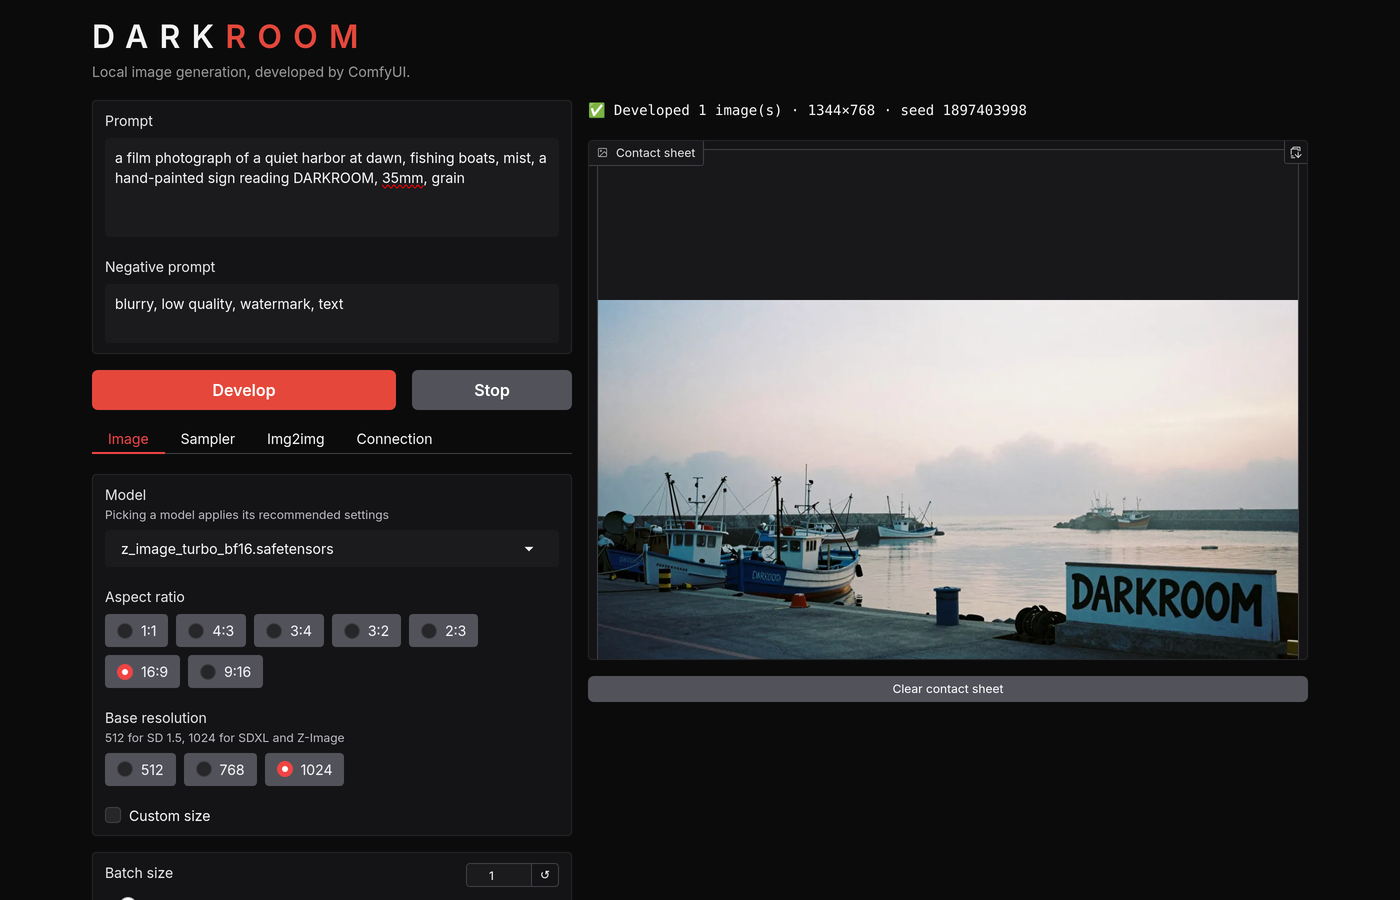
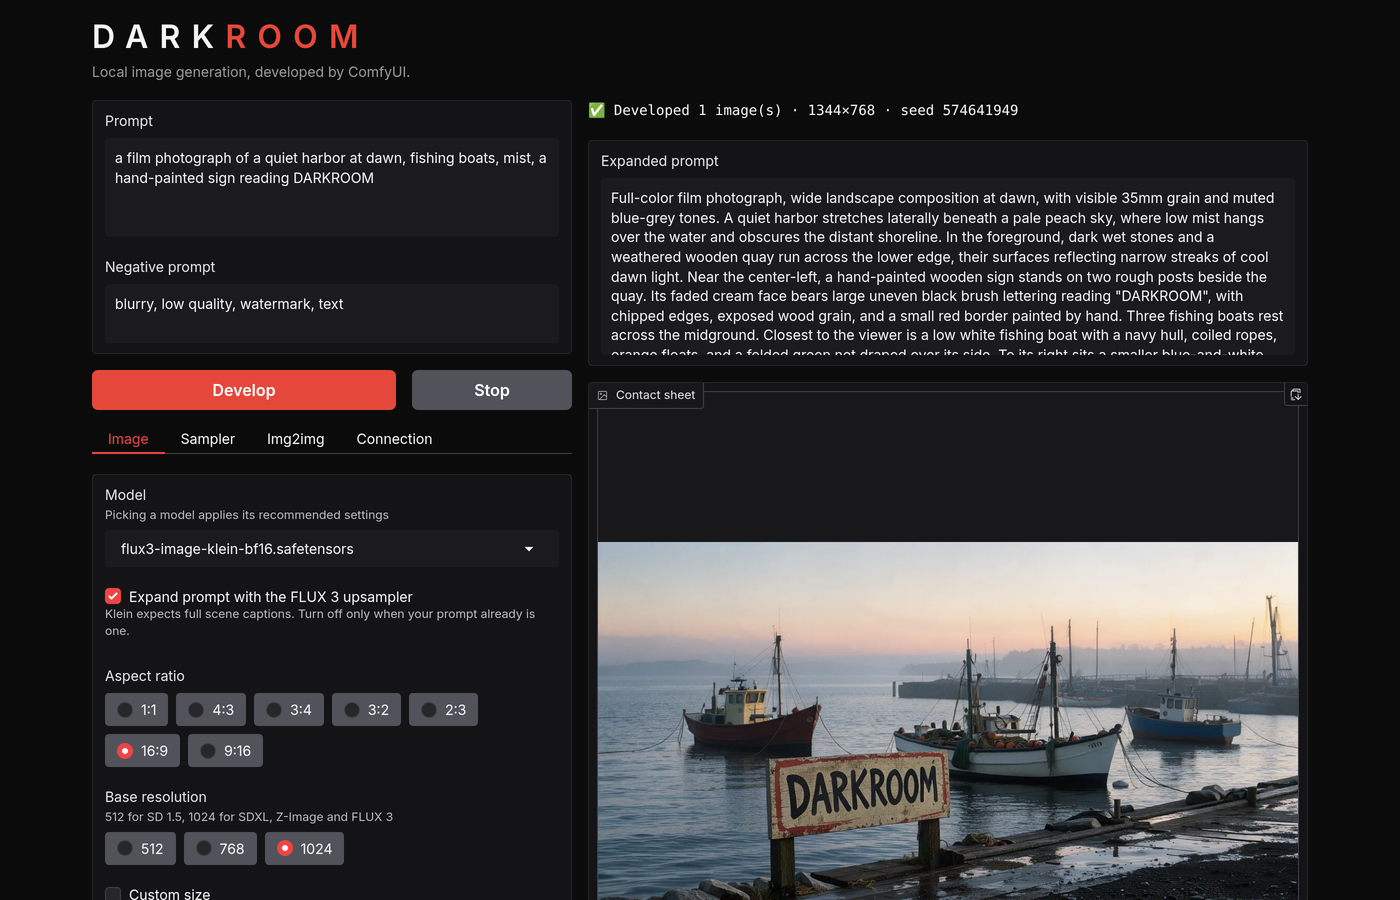
Add FLUX 3 Image Klein with its prompt upsampler
- Build Black Forest Labs' ComfyUI graph for flux3 diffusion models:
  Qwen3-VL 4B text encoder, FLUX.2 VAE, timestep shift ln 16
- Expand prompts with the Qwen3.5 9B upsampler by default, show the
  expanded prompt, and allow turning it off
- Presets for distilled (16 steps, CFG 1) and base (50 steps, CFG 3.5)
- Modal download fetches the gated weights with the huggingface secret
- Document FLUX 3 setup and update the changelog and screenshot

Amp-Thread-ID: https://ampcode.com/threads/T-01a203e0-820e-74d3-a02a-46e3893e5468

diff --git a/src/darkroom/app.py b/src/darkroom/app.py
@@ -8,7 +8,7 @@ import random
 import gradio as gr
 from websocket import WebSocketException
 
-from darkroom.comfy import ComfyClient, ComfyError, Params, build_workflow, is_zimage
+from darkroom.comfy import ComfyClient, ComfyError, Params, build_workflow, is_flux3, is_zimage
 
 DEFAULT_URL = os.environ.get("COMFYUI_URL", "http://127.0.0.1:8188")
 MAX_SEED = 2**32 - 1
@@ -65,9 +65,16 @@ def size_for(aspect: str, base: int) -> tuple[int, int]:
 
 
 def presets(model: str | None):
-    """Recommended base resolution, steps, CFG, sampler and scheduler for a model."""
+    """Recommended base resolution, steps, CFG, sampler, scheduler, and upsampler visibility for a model."""
     if not model:
-        return (gr.update(),) * 5
+        return (gr.update(),) * 6
+    upsampler = gr.update(visible=is_flux3(model))
+    return (*_preset(model), upsampler)
+
+
+def _preset(model: str):
+    if is_flux3(model):  # Black Forest Labs' FLUX 3 Klein workflows
+        return (1024, 50, 3.5, "euler", "simple") if "base" in model.lower() else (1024, 16, 1, "euler", "simple")
     if is_zimage(model):  # ComfyUI's Z-Image Turbo template
         return 1024, 8, 1, "res_multistep", "simple"
     if "xl" in model.lower():
@@ -76,7 +83,7 @@ def presets(model: str | None):
 
 
 def generate(url, ckpt, prompt, negative, aspect, base, width, height, custom_size,
-             steps, cfg, sampler, scheduler, seed, randomize, batch, init_image, denoise, history):
+             steps, cfg, sampler, scheduler, seed, randomize, batch, init_image, denoise, upsample, history):
     if not ckpt:
         raise gr.Error("No model selected. Connect to ComfyUI and pick one.")
     if not prompt.strip():
@@ -91,29 +98,35 @@ def generate(url, ckpt, prompt, negative, aspect, base, width, height, custom_si
         params = Params(
             checkpoint=ckpt, prompt=prompt, negative=negative, width=int(width), height=int(height),
             steps=int(steps), cfg=float(cfg), sampler=sampler, scheduler=scheduler, seed=seed,
-            batch=int(batch), denoise=float(denoise), init_image=init_name,
+            batch=int(batch), denoise=float(denoise), init_image=init_name, upsample=bool(upsample),
         )
+        expanded = gr.update(visible=False)
+        if is_flux3(ckpt) and upsample:
+            expanded = gr.update(value="Expanding the prompt…", visible=True)
         mode = "img2img" if init_name else "txt2img"
-        yield gr.update(), gr.update(), f"⏳ Queued {mode} · {width}×{height} · seed {seed}", seed, history
+        yield gr.update(), gr.update(), f"⏳ Queued {mode} · {width}×{height} · seed {seed}", seed, history, expanded
         for event in client.run(build_workflow(params)):
             if event[0] == "progress":
                 _, value, total = event
                 bar = "█" * int(20 * value / total) + "░" * (20 - int(20 * value / total))
-                yield gr.update(), gr.update(), f"{bar} step {value}/{total} · seed {seed}", seed, history
+                yield gr.update(), gr.update(), f"{bar} step {value}/{total} · seed {seed}", seed, history, gr.update()
             elif event[0] == "preview":
-                yield gr.update(value=event[1], visible=True), gr.update(), gr.update(), seed, history
+                yield gr.update(value=event[1], visible=True), gr.update(), gr.update(), seed, history, gr.update()
             else:
-                images = event[1]
+                images, texts = event[1], event[2]
+                if texts:
+                    expanded = gr.update(value=texts[0], visible=True)
                 captions = [f"seed {seed} · {prompt[:80]}" for _ in images]
                 history = list(zip(images, captions)) + history
                 yield (gr.update(value=None, visible=False), [img for img, _ in history],
-                       f"✅ Developed {len(images)} image(s) · {width}×{height} · seed {seed}", seed, history)
+                       f"✅ Developed {len(images)} image(s) · {width}×{height} · seed {seed}", seed, history,
+                       expanded)
     except ComfyError as e:
         msg = "⏹ Stopped" if str(e) == "Interrupted" else f"🔴 {e}"
-        yield gr.update(visible=False), gr.update(), msg, seed, history
+        yield gr.update(visible=False), gr.update(), msg, seed, history, gr.update(visible=False)
     except (OSError, WebSocketException) as e:
         msg = f"🔴 Lost connection to ComfyUI ({e}). Check the ComfyUI console; it may have run out of memory."
-        yield gr.update(visible=False), gr.update(), msg, seed, history
+        yield gr.update(visible=False), gr.update(), msg, seed, history, gr.update(visible=False)
 
 
 def build_ui() -> gr.Blocks:
@@ -134,9 +147,12 @@ def build_ui() -> gr.Blocks:
                 with gr.Tab("Image"):
                     ckpt = gr.Dropdown(label="Model", choices=[], interactive=True,
                                        info="Picking a model applies its recommended settings")
+                    upsample = gr.Checkbox(label="Expand prompt with the FLUX 3 upsampler", value=True,
+                                           visible=False, info="Klein expects full scene captions. "
+                                           "Turn off only when your prompt already is one.")
                     aspect = gr.Radio(list(ASPECTS), value="1:1", label="Aspect ratio")
                     base = gr.Radio([512, 768, 1024], value=512, label="Base resolution",
-                                    info="512 for SD 1.5, 1024 for SDXL and Z-Image")
+                                    info="512 for SD 1.5, 1024 for SDXL, Z-Image and FLUX 3")
                     custom_size = gr.Checkbox(label="Custom size", value=False)
                     with gr.Row(visible=False) as custom_row:
                         width = gr.Slider(64, 2048, 512, step=64, label="Width")
@@ -161,20 +177,22 @@ def build_ui() -> gr.Blocks:
 
             with gr.Column(scale=6):
                 status = gr.Markdown("", elem_id="status")
+                expanded = gr.Textbox(label="Expanded prompt", lines=3, max_lines=8, interactive=False,
+                                      visible=False)
                 preview = gr.Image(label="Developing…", visible=False, interactive=False, height=420)
                 gallery = gr.Gallery(label="Contact sheet", columns=3, height=520, object_fit="contain",
                                      show_label=True, preview=False)
                 clear_btn = gr.Button("Clear contact sheet", size="sm")
 
         connect_outputs = [ckpt, sampler, scheduler, status]
-        ckpt.change(presets, ckpt, [base, steps, cfg, sampler, scheduler])
+        ckpt.change(presets, ckpt, [base, steps, cfg, sampler, scheduler, upsample])
         demo.load(connect, url, connect_outputs)
         refresh_btn.click(connect, url, connect_outputs)
         custom_size.change(lambda c: gr.update(visible=c), custom_size, custom_row)
 
         inputs = [url, ckpt, prompt, negative, aspect, base, width, height, custom_size,
-                  steps, cfg, sampler, scheduler, seed, randomize, batch, init_image, denoise, history]
-        outputs = [preview, gallery, status, seed, history]
+                  steps, cfg, sampler, scheduler, seed, randomize, batch, init_image, denoise, upsample, history]
+        outputs = [preview, gallery, status, seed, history, expanded]
         generate_btn.click(generate, inputs, outputs, concurrency_limit=1)
         prompt.submit(generate, inputs, outputs, concurrency_limit=1)
         # Interrupting ComfyUI ends the running generate() with an "Interrupted" event.

diff --git a/src/darkroom/comfy.py b/src/darkroom/comfy.py
@@ -4,10 +4,12 @@ from __future__ import annotations
 
 import io
 import json
+import math
 import os
 import uuid
 from collections.abc import Iterator
 from dataclasses import dataclass
+from importlib.resources import files
 
 import requests
 import websocket
@@ -29,6 +31,7 @@ class Params:
     batch: int
     denoise: float = 1.0
     init_image: str | None = None  # name returned by ComfyClient.upload
+    upsample: bool = True  # FLUX 3 Klein only: expand the prompt with BFL's upsampler first
 
 
 # Z-Image ships as separate diffusion model, text encoder and VAE files (ComfyUI's official template).
@@ -40,9 +43,49 @@ def is_zimage(model: str) -> bool:
     return "z_image" in model.lower()
 
 
+# FLUX 3 Image Klein, as in Black Forest Labs' ComfyUI workflows (flux-3-image-klein-comfy, MIT).
+FLUX3_TEXT_ENCODER = "qwen3vl_4b_bf16.safetensors"
+FLUX3_UPSAMPLER = "qwen3.5_9b_flux3_prompt_upsampler_bf16.safetensors"
+FLUX3_VAE = "flux2-vae.safetensors"
+FLUX3_SHIFT = math.log(16)  # the workflows' timestep shift: mu = ln(alpha), alpha = 16
+FLUX3_SYSTEM_PROMPT = files("darkroom").joinpath("flux3_upsampler_prompt.txt").read_text().strip()
+
+
+def is_flux3(model: str) -> bool:
+    return "flux3" in model.lower()
+
+
+def _canvas(width: int, height: int) -> str:
+    g = math.gcd(width, height)
+    return f"{width // g}:{height // g}"
+
+
 def build_workflow(p: Params) -> dict:
     """Build a ComfyUI API-format graph for txt2img, or img2img when init_image is set."""
-    if is_zimage(p.checkpoint):
+    prompt = ["upsample", 0] if is_flux3(p.checkpoint) and p.upsample else p.prompt
+    if is_flux3(p.checkpoint):
+        g = {
+            "unet": {"class_type": "UNETLoader", "inputs": {"unet_name": p.checkpoint, "weight_dtype": "default"}},
+            "shift": {"class_type": "ModelSamplingFlux", "inputs": {
+                "model": ["unet", 0], "max_shift": FLUX3_SHIFT, "base_shift": FLUX3_SHIFT,
+                "width": p.width, "height": p.height}},
+            "clip": {"class_type": "CLIPLoader", "inputs": {"clip_name": FLUX3_TEXT_ENCODER, "type": "flux3"}},
+            "vae": {"class_type": "VAELoader", "inputs": {"vae_name": FLUX3_VAE}},
+        }
+        model, clip, vae, empty_latent = ["shift", 0], ["clip", 0], ["vae", 0], "EmptyFlux2LatentImage"
+        if p.upsample:
+            # Klein is trained on full scene captions; its upsampler LLM expands a short prompt into one.
+            g["upsampler"] = {"class_type": "CLIPLoader",
+                              "inputs": {"clip_name": FLUX3_UPSAMPLER, "type": "flux3"}}
+            g["upsample"] = {"class_type": "TextGenerate", "inputs": {
+                "clip": ["upsampler", 0], "system_prompt": FLUX3_SYSTEM_PROMPT,
+                "prompt": f"TARGET CANVAS: {_canvas(p.width, p.height)}\n{p.prompt.strip()}",
+                "max_length": 3584, "thinking": False, "use_default_template": True, "mtp": "off",
+                "sampling_mode": "on", "sampling_mode.temperature": 1, "sampling_mode.top_k": 1,
+                "sampling_mode.top_p": 0.95, "sampling_mode.min_p": 0, "sampling_mode.repetition_penalty": 1,
+                "sampling_mode.presence_penalty": 1.5, "sampling_mode.seed": p.seed}}
+            g["show_prompt"] = {"class_type": "PreviewAny", "inputs": {"source": ["upsample", 0]}}
+    elif is_zimage(p.checkpoint):
         g: dict = {
             "unet": {"class_type": "UNETLoader", "inputs": {"unet_name": p.checkpoint, "weight_dtype": "default"}},
             "shift": {"class_type": "ModelSamplingAuraFlow", "inputs": {"model": ["unet", 0], "shift": 3}},
@@ -54,7 +97,7 @@ def build_workflow(p: Params) -> dict:
         g = {"ckpt": {"class_type": "CheckpointLoaderSimple", "inputs": {"ckpt_name": p.checkpoint}}}
         model, clip, vae, empty_latent = ["ckpt", 0], ["ckpt", 1], ["ckpt", 2], "EmptyLatentImage"
     # At CFG 1 (Z-Image Turbo's default) ComfyUI skips the negative prompt.
-    g["pos"] = {"class_type": "CLIPTextEncode", "inputs": {"text": p.prompt, "clip": clip}}
+    g["pos"] = {"class_type": "CLIPTextEncode", "inputs": {"text": prompt, "clip": clip}}
     g["neg"] = {"class_type": "CLIPTextEncode", "inputs": {"text": p.negative, "clip": clip}}
     if p.init_image:
         g["load"] = {"class_type": "LoadImage", "inputs": {"image": p.init_image}}
@@ -116,9 +159,10 @@ class ComfyClient:
         return info[1].get("options", [])
 
     def checkpoints(self) -> list[str]:
-        """Checkpoints plus the diffusion models Darkroom can build a workflow for (Z-Image)."""
+        """Checkpoints plus the diffusion models Darkroom can build a workflow for (Z-Image, FLUX 3)."""
         unets = self._choices("UNETLoader", "unet_name")
-        return self._choices("CheckpointLoaderSimple", "ckpt_name") + [u for u in unets if is_zimage(u)]
+        return self._choices("CheckpointLoaderSimple", "ckpt_name") + [
+            u for u in unets if is_zimage(u) or is_flux3(u)]
 
     def samplers(self) -> list[str]:
         return self._choices("KSampler", "sampler_name")
@@ -142,7 +186,8 @@ class ComfyClient:
     def run(self, workflow: dict) -> Iterator[tuple]:
         """Queue a workflow and yield events while it runs.
 
-        Yields ("progress", value, max), ("preview", Image), and finally ("done", [Image, ...]).
+        Yields ("progress", value, max), ("preview", Image), and finally ("done", [Image, ...], [text, ...]),
+        where the texts come from text output nodes such as the FLUX 3 prompt upsampler.
         """
         ws_url = self.url.replace("http", "ws", 1) + f"/ws?clientId={self.client_id}"
         ws = websocket.create_connection(ws_url, timeout=600, header=self.headers)
@@ -180,12 +225,13 @@ class ComfyClient:
             ws.close()
 
         history = self._get(f"/history/{prompt_id}").json()[prompt_id]
-        images = []
+        images, texts = [], []
         for output in history["outputs"].values():
+            texts += output.get("text", [])
             for im in output.get("images", []):
                 raw = self._get("/view", filename=im["filename"], subfolder=im["subfolder"], type=im["type"]).content
                 images.append(Image.open(io.BytesIO(raw)))
-        yield ("done", images)
+        yield ("done", images, texts)
 
 
 def _format_prompt_error(r: requests.Response) -> str:

diff --git a/modal_comfyui.py b/modal_comfyui.py
@@ -16,6 +16,8 @@ GPU = os.environ.get("DARKROOM_GPU", "L40S")
 SCALEDOWN = 300
 PORT = 8000
 
+FLUX3 = "black-forest-labs/flux-3-image-klein-comfy"
+
 # (ComfyUI model folder, Hugging Face repo, file in the repo)
 MODELS = [
     ("checkpoints", "Comfy-Org/stable-diffusion-v1-5-archive", "v1-5-pruned-emaonly-fp16.safetensors"),
@@ -24,6 +26,12 @@ MODELS = [
     ("diffusion_models", "Comfy-Org/z_image_turbo", "split_files/diffusion_models/z_image_turbo_bf16.safetensors"),
     ("text_encoders", "Comfy-Org/z_image_turbo", "split_files/text_encoders/qwen_3_4b.safetensors"),
     ("vae", "Comfy-Org/z_image_turbo", "split_files/vae/ae.safetensors"),
+    # FLUX 3 Image Klein, distilled, bf16, with its prompt upsampler (about 38 GB). The repo is gated: accept the
+    # license on Hugging Face, then store a token as the Modal secret "huggingface" (HF_TOKEN=hf_...).
+    ("diffusion_models", FLUX3, "diffusion_models/flux3-image-klein-bf16.safetensors"),
+    ("text_encoders", FLUX3, "text_encoders/qwen3vl_4b_bf16.safetensors"),
+    ("text_encoders", FLUX3, "text_encoders/qwen3.5_9b_flux3_prompt_upsampler_bf16.safetensors"),
+    ("vae", FLUX3, "vae/flux2-vae.safetensors"),
 ]
 FOLDERS = sorted({folder for folder, _, _ in MODELS})
 
@@ -42,7 +50,7 @@ models = modal.Volume.from_name("darkroom-models", create_if_missing=True)
 app = modal.App("darkroom-comfyui", image=image)
 
 
-@app.function(volumes={"/models": models}, timeout=3600)
+@app.function(volumes={"/models": models}, timeout=3600, secrets=[modal.Secret.from_name("huggingface")])
 def download(extra: str = ""):
     """Download the default models, plus extra checkpoints given as "owner/repo/file.safetensors,..."."""
     from huggingface_hub import hf_hub_download

diff --git a/README.md b/README.md
@@ -3,13 +3,15 @@
 A local image generation studio: a dark Gradio UI on top of a [ComfyUI](https://github.com/comfyanonymous/ComfyUI) backend.
 Write a prompt, pick a checkpoint, and watch the image develop step by step.
 
-![Darkroom with a Z-Image Turbo result](docs/screenshot.png)
+![Darkroom with a FLUX 3 Klein result](docs/screenshot.png)
 
 ## Features
 
 - **txt2img and img2img** with any checkpoint ComfyUI can load (SD 1.5, SDXL, and other single-file checkpoints)
   and with [Z-Image Turbo](https://huggingface.co/Tongyi-MAI/Z-Image-Turbo), which renders photoreal images and legible
-  text in 8 steps
+  text in 8 steps, and with [FLUX 3 Image Klein](https://bfl.ai/blog/flux-3-image-klein) from Black Forest Labs
+- **FLUX 3 prompt upsampler:** Klein's own Qwen3.5 9B upsampler turns a short prompt into the full scene caption the
+  model expects, and Darkroom shows the expanded prompt
 - **Model presets:** picking a model sets its recommended resolution, steps, CFG, sampler and scheduler
 - **Live development:** a step-by-step progress bar and latent previews while the image renders
 - **Aspect ratio sizing:** pick 1:1 to 16:9 and a base resolution (512, 768, 1024); Darkroom picks the
@@ -60,6 +62,21 @@ ComfyUI/models/vae/ae.safetensors
 
 Darkroom lists any diffusion model whose name contains `z_image` and expects the text encoder and VAE under these
 names. Z-Image needs a GPU with about 16 GB or more of VRAM at bf16.
+
+For FLUX 3 Image Klein, accept the license at
+[black-forest-labs/flux-3-image-klein-comfy](https://huggingface.co/black-forest-labs/flux-3-image-klein-comfy)
+(gated, FLUX Kommunity License) and download (about 38 GB):
+
+```
+ComfyUI/models/diffusion_models/flux3-image-klein-bf16.safetensors
+ComfyUI/models/text_encoders/qwen3vl_4b_bf16.safetensors
+ComfyUI/models/text_encoders/qwen3.5_9b_flux3_prompt_upsampler_bf16.safetensors
+ComfyUI/models/vae/flux2-vae.safetensors
+```
+
+Darkroom lists any diffusion model whose name contains `flux3` and builds the graph from Black Forest Labs' ComfyUI
+workflows. It needs ComfyUI 0.41 or later and, at bf16, a GPU with more than 24 GB of VRAM. The base checkpoint
+(`flux3-image-klein-base-bf16.safetensors`) also works; picking it sets 50 steps and CFG 3.5.
 Apple Silicon works through PyTorch's MPS backend with the default torch install.
 Without a GPU, install the CPU build of torch and start ComfyUI with `--cpu`. That works but is slow: a 512×512
 SD 1.5 image takes several minutes, and the model needs about 6 GB of free RAM.
@@ -73,7 +90,7 @@ generating.
 ```sh
 uv sync --extra modal
 uv run modal setup                                           # once: sign in to Modal
-uv run modal run modal_comfyui.py::download                  # SD 1.5, SDXL base and Z-Image Turbo into a Volume
+uv run modal run modal_comfyui.py::download                  # SD 1.5, SDXL, Z-Image Turbo, FLUX 3 Klein into a Volume
 uv run modal deploy modal_comfyui.py                         # prints https://<workspace>--darkroom-comfyui-comfyui.<region>.modal.run
 uv run modal workspace proxy-tokens create --name darkroom   # prints a token ID (wk-…) and secret (ws-…), shown only once
 
@@ -87,7 +104,10 @@ uv run darkroom
 - **Another GPU:** `DARKROOM_GPU=A10G uv run modal deploy modal_comfyui.py`.
 - **Timing:** the first request after an idle period starts the GPU, which takes about 1 to 2 minutes. After that,
   on the L40S, SD 1.5 at 512×512 with 25 steps takes about 2.5 s, SDXL at 1024×1024 with 30 steps about 15 s,
-  and Z-Image Turbo at 1024×1024 with 8 steps about 4 s.
+  Z-Image Turbo at 1024×1024 with 8 steps about 4 s, and FLUX 3 Klein at 16 steps about 5.5 s, or about 14 s with
+  the prompt upsampler.
+- **FLUX 3 download:** the repo is gated. Accept its license on Hugging Face and store a token as a Modal secret
+  named `huggingface` (`uv run modal secret create huggingface HF_TOKEN=hf_...`) before running the download step.
 
 ## Configuration
 
@@ -103,7 +123,10 @@ uv run darkroom
 
 - Use base resolution 512 for SD 1.5 and 1024 for SDXL and Z-Image; other sizes give duplicated subjects or blurry
   results. Picking a model sets this for you.
-- Z-Image Turbo runs at CFG 1, where the negative prompt has no effect. Describe what you want in the prompt instead.
+- Z-Image Turbo and the distilled FLUX 3 Klein run at CFG 1, where the negative prompt has no effect. Describe what
+  you want in the prompt instead.
+- With FLUX 3, keep the upsampler on for short prompts. Turn it off only when you write a full scene caption yourself;
+  the **Expanded prompt** box shows what a good one looks like.
 - Press Enter in the prompt box to develop.
 - For img2img, drop an image in the **Img2img** tab. It is scaled and center-cropped to the chosen size.
   Lower denoise keeps more of the original.
@@ -115,6 +138,7 @@ uv run darkroom
 |---|---|
 | 🔴 Cannot reach ComfyUI | ComfyUI isn't running at `COMFYUI_URL`, or the URL is wrong. |
 | 0 models | No models in `ComfyUI/models/checkpoints` (or `diffusion_models` for Z-Image). Add one and click **Connect / refresh models**. |
+| FLUX 3: value not in list | A FLUX 3 text encoder, upsampler or VAE is missing. See the FLUX 3 files above. |
 | Z-Image: value not in list | The text encoder `qwen_3_4b.safetensors` or VAE `ae.safetensors` is missing. See the Z-Image files above. |
 | 🔴 Lost connection to ComfyUI | ComfyUI stopped mid-job, usually because it ran out of memory. Check its console; try a smaller size or batch. |
 | HTTP 401 from Modal | `COMFYUI_TOKEN` is missing or wrong. It must be `wk-…` and `ws-…` joined with a dot. |
@@ -125,6 +149,7 @@ uv run darkroom
 ```
 src/darkroom/app.py      Gradio UI and generation flow
 src/darkroom/comfy.py    ComfyUI client (HTTP + websocket) and workflow builder
+src/darkroom/flux3_upsampler_prompt.txt  BFL's system prompt for the FLUX 3 upsampler (MIT)
 modal_comfyui.py         ComfyUI on a Modal GPU
 ```
 

diff --git a/CHANGELOG.md b/CHANGELOG.md
@@ -13,6 +13,12 @@ The format follows [Keep a Changelog](https://keepachangelog.com/en/1.1.0/), and
 - Model presets: picking a model sets its recommended base resolution, steps, CFG, sampler and scheduler
   (Z-Image Turbo: 1024, 8 steps, CFG 1, `res_multistep`, `simple`).
 - The Modal download step also fetches Z-Image Turbo into the model Volume.
+- FLUX 3 Image Klein support, following Black Forest Labs' ComfyUI workflows: the model list includes `flux3`
+  diffusion models, which load with the Qwen3-VL 4B text encoder, the FLUX.2 VAE and a timestep shift of ln 16,
+  for txt2img and img2img. Presets: 1024, 16 steps, CFG 1 (distilled) or 50 steps, CFG 3.5 (base).
+- FLUX 3 prompt upsampler, on by default: the Qwen3.5 9B upsampler expands the prompt into a full scene caption
+  for the canvas shape, and an Expanded prompt box shows the result.
+- The Modal download step fetches FLUX 3 Klein from its gated repo using the `huggingface` Modal secret.
 
 ### Changed
 
